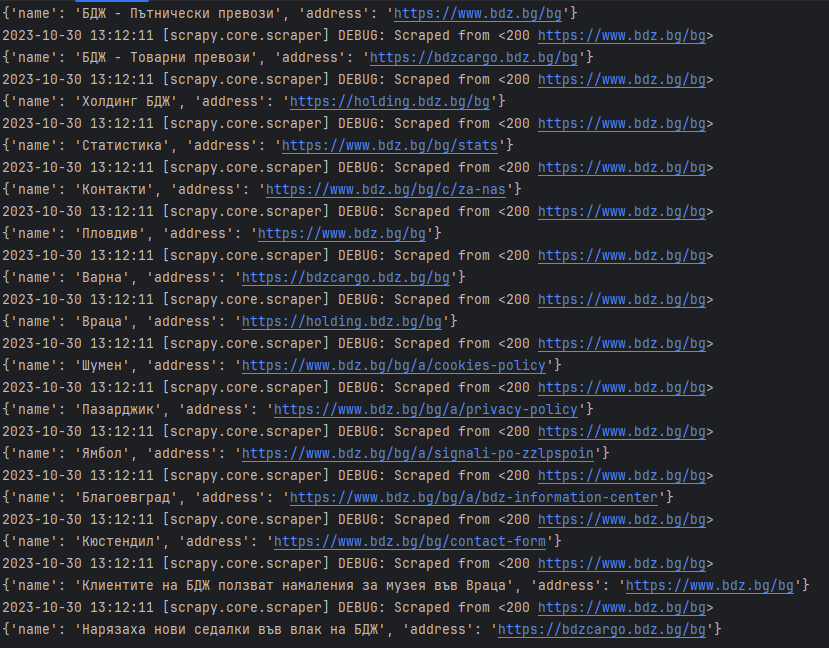
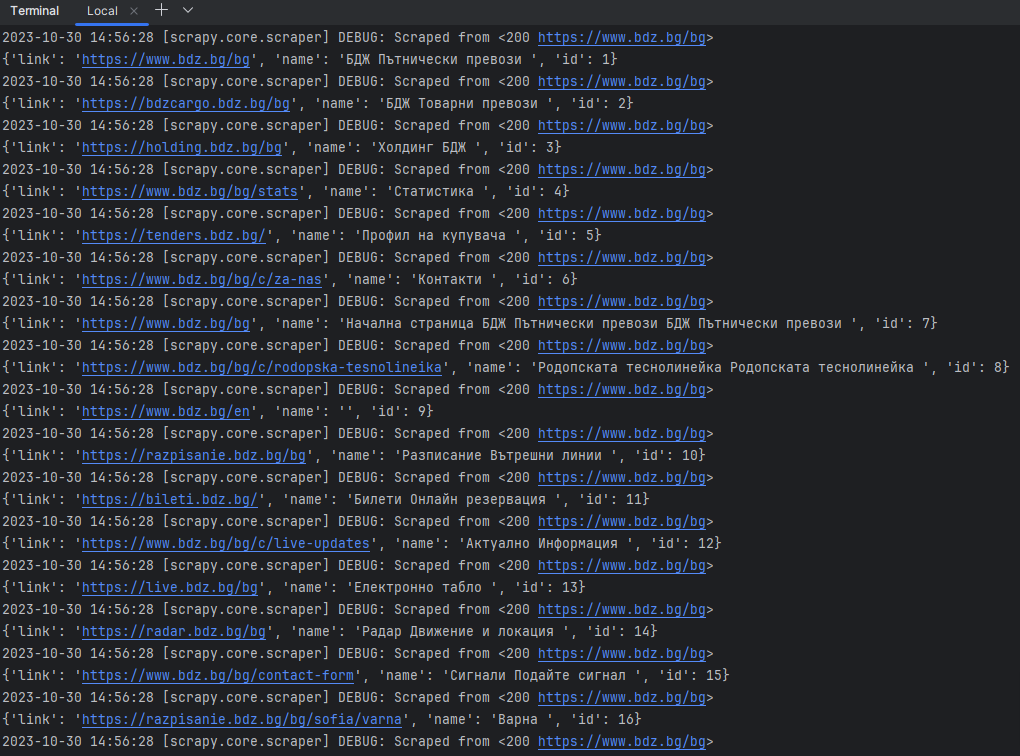
added id-s to counted items to see how many of the total are skipped

Changed region(s): [[0.0, 0.0, 0.965, 1.0], [0.9349, 0.463, 0.9952, 0.4938], [0.9047, 0.4012, 0.9349, 0.4321]]

diff --git a/scrapy/get_links/get_links/spiders/links_spider.py b/scrapy/get_links/get_links/spiders/links_spider.py
@@ -8,10 +8,12 @@ class LinksSpider(scrapy.Spider):
 
     def parse(self, response):
         found_links = response.css('a').getall()
+        counter = 1
 
         for link in found_links:
             current_link = link.split('href="')[1].split('"')[0],
-            if "#" in current_link:
+            current_link = current_link[0]
+            if "#" in current_link or "http" not in current_link:
                 continue
             found_name = ''
             for ch in link:
@@ -23,6 +25,8 @@ class LinksSpider(scrapy.Spider):
                 if word:
                     final_name += word + ' '
             yield {
+                'id': counter,
                 'link': current_link,
-                'name': final_name
+                'name': final_name,
             }
+            counter += 1
